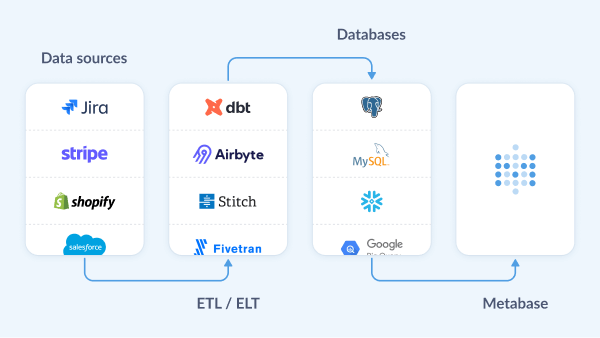
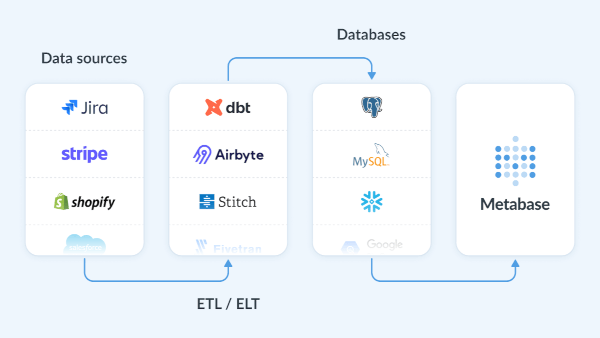
Onboarding checklist - misc. follow ups (#50579)
* Fix the help link

* Update data stack image

* Fix the link appearance

diff --git a/frontend/src/metabase/home/components/Onboarding/Onboarding.tsx b/frontend/src/metabase/home/components/Onboarding/Onboarding.tsx
@@ -12,9 +12,11 @@ import { jt, t } from "ttag";
 import { useSetting, useTempStorage } from "metabase/common/hooks";
 import ExternalLink from "metabase/core/components/ExternalLink";
 import Link from "metabase/core/components/Link";
+import CS from "metabase/css/core/index.css";
 import { getIsXrayEnabled } from "metabase/home/selectors";
 import { useSelector } from "metabase/lib/redux";
 import * as Urls from "metabase/lib/urls";
+import { useHelpLink } from "metabase/nav/components/ProfileLink/useHelpLink";
 import {
   getDocsUrl,
   getIsPaidPlan,
@@ -190,6 +192,8 @@ export const Onboarding = () => {
       utm: utmTags,
     }),
   );
+
+  const helpLink = useHelpLink();
 
   const disabledXrayCopy = (isAdmin: boolean) =>
     isAdmin
@@ -486,11 +490,13 @@ export const Onboarding = () => {
                     <Text data-testid="subscription-communication-setup">
                       {jt`${(
                         <Link
+                          className={CS.link}
                           key="subscription-email"
                           to="/admin/settings/email/smtp"
                         >{t`Set up email`}</Link>
                       )} or ${(
                         <Link
+                          className={CS.link}
                           key="subscription-slack"
                           to="/admin/settings/notifications"
                         >{t`Slack`}</Link>
@@ -545,11 +551,13 @@ export const Onboarding = () => {
                     <Text data-testid="alert-communication-setup">
                       {jt`${(
                         <Link
+                          className={CS.link}
                           key="alert-email"
                           to="/admin/settings/email/smtp"
                         >{t`Set up email`}</Link>
                       )} or ${(
                         <Link
+                          className={CS.link}
                           key="alert-slack"
                           to="/admin/settings/notifications"
                         >{t`Slack`}</Link>
@@ -644,15 +652,15 @@ export const Onboarding = () => {
                 </Text>
               </Box>
             )}
-            {isAdmin && isPaidPlan && (
+            {helpLink.visible && (
               <Box className={S.support} data-testid="help-section" p="lg">
                 <Stack spacing="xs">
                   <Title order={4}>{t`Need to talk with someone?`}</Title>
                   <Text>{t`Reach out to engineers who can help with technical troubleshooting. Not your typical support agents.`}</Text>
                 </Stack>
-                <Link to="mailto:help@metabase.com" key="help">
+                <ExternalLink href={helpLink.href} key="help">
                   <Button variant="filled">{t`Get Help`}</Button>
-                </Link>
+                </ExternalLink>
               </Box>
             )}
           </Box>

diff --git a/frontend/src/metabase/home/components/Onboarding/tests/premium.unit.spec.tsx b/frontend/src/metabase/home/components/Onboarding/tests/premium.unit.spec.tsx
@@ -78,8 +78,8 @@ describe("Onboarding (EE with token)", () => {
       expect(learning).not.toBeInTheDocument();
     });
 
-    it("should render the 'help' section for paid plans", () => {
-      setup();
+    it("should render the premium 'help' section for admins of instances on paid plans", () => {
+      setup({ isAdmin: true });
 
       const footer = screen.getByRole("contentinfo");
       const helpSection = within(footer).getByTestId("help-section");
@@ -87,7 +87,23 @@ describe("Onboarding (EE with token)", () => {
       expect(helpSection).toBeInTheDocument();
       expect(within(helpSection).getByRole("link")).toHaveAttribute(
         "href",
-        "mailto:help@metabase.com",
+        "https://www.metabase.com/help-premium?utm_source=in-product&utm_medium=menu&utm_campaign=help&instance_version=v1&diag=null",
+      );
+      expect(
+        within(helpSection).getByRole("button", { name: "Get Help" }),
+      ).toBeInTheDocument();
+    });
+
+    it("should not render the premium 'help' section for non-admins even if the instance is on a paid plan", () => {
+      setup({ isAdmin: false });
+
+      const footer = screen.getByRole("contentinfo");
+      const helpSection = within(footer).getByTestId("help-section");
+
+      expect(helpSection).toBeInTheDocument();
+      expect(within(helpSection).getByRole("link")).toHaveAttribute(
+        "href",
+        "https://www.metabase.com/help?utm_source=in-product&utm_medium=menu&utm_campaign=help&instance_version=v1",
       );
       expect(
         within(helpSection).getByRole("button", { name: "Get Help" }),

diff --git a/frontend/src/metabase/home/components/Onboarding/tests/enterprise.unit.spec.tsx b/frontend/src/metabase/home/components/Onboarding/tests/enterprise.unit.spec.tsx
@@ -60,13 +60,16 @@ describe("Onboarding (EE without token)", () => {
       );
     });
 
-    it("should not render the 'help' section", () => {
+    it("should not render the premium 'help' section", () => {
       setup();
 
       const footer = screen.getByRole("contentinfo");
-      expect(
-        within(footer).queryByTestId("help-section"),
-      ).not.toBeInTheDocument();
+      const helpSection = within(footer).getByTestId("help-section");
+      expect(helpSection).toBeInTheDocument();
+      expect(within(helpSection).getByRole("link")).toHaveProperty(
+        "href",
+        "https://www.metabase.com/help?utm_source=in-product&utm_medium=menu&utm_campaign=help&instance_version=v1",
+      );
     });
   });
 });

diff --git a/frontend/src/metabase/home/components/Onboarding/tests/common.unit.spec.tsx b/frontend/src/metabase/home/components/Onboarding/tests/common.unit.spec.tsx
@@ -454,13 +454,16 @@ describe("Onboarding", () => {
       );
     });
 
-    it("should not render the 'help' section", () => {
+    it("should not render the premium 'help' section", () => {
       setup();
 
       const footer = screen.getByRole("contentinfo");
-      expect(
-        within(footer).queryByTestId("help-section"),
-      ).not.toBeInTheDocument();
+      const helpSection = within(footer).getByTestId("help-section");
+      expect(helpSection).toBeInTheDocument();
+      expect(within(helpSection).getByRole("link")).toHaveProperty(
+        "href",
+        "https://www.metabase.com/help?utm_source=in-product&utm_medium=menu&utm_campaign=help&instance_version=v1",
+      );
     });
   });
 });
